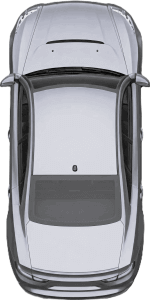
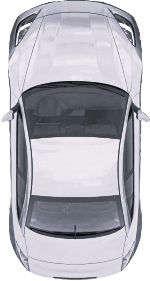
updated visuals and ray length

diff --git a/visualizer.js b/visualizer.js
@@ -21,7 +21,7 @@ class Visualizer {
           network.levels.length == 1 ? 0.5 : i / (network.levels.length - 1)
         );
 
-      ctx.setLineDash([50, 8]); // Set dashed lines for visual effect
+      // ctx.setLineDash([50, 8]); // Set dashed lines for visual effect
       // Draw the current level, passing input and output labels for the last level.
       Visualizer.drawLevel(
         ctx,
@@ -64,7 +64,7 @@ class Visualizer {
       const x = Visualizer.#getNodeX(inputs, i, left, right);
       ctx.beginPath();
       ctx.arc(x, bottom, nodeRadius, 0, Math.PI * 2); // Outer circle
-      ctx.fillStyle = "rgba(125,125,125,0.1)"; // Light gray for outer ring
+      ctx.fillStyle = "rgba(125,125,125,0.3)"; // Light gray for outer ring
       ctx.fill();
       ctx.beginPath();
       ctx.arc(x, bottom, nodeRadius * 0.6, 0, Math.PI * 2); // Inner circle
@@ -77,7 +77,7 @@ class Visualizer {
       const x = Visualizer.#getNodeX(outputs, i, left, right);
       ctx.beginPath();
       ctx.arc(x, top, nodeRadius, 0, Math.PI * 2); // Outer circle
-      ctx.fillStyle = "rgba(125,125,125,0.05)"; // Light gray for outer ring
+      ctx.fillStyle = "black"; // Light gray for outer ring
       ctx.fill();
       ctx.beginPath();
       ctx.arc(x, top, nodeRadius * 0.6, 0, Math.PI * 2); // Inner circle
@@ -89,9 +89,9 @@ class Visualizer {
       ctx.lineWidth = 3;
       ctx.arc(x, top, nodeRadius * 0.8, 0, Math.PI * 2); // Bias ring
       ctx.strokeStyle = getRGBA(biases[i]);
-      ctx.setLineDash([10, 5]); // Dashed line for bias.
+      // ctx.setLineDash([10, 5]); // Dashed line for bias.
       ctx.stroke();
-      ctx.setLineDash([]);
+      // ctx.setLineDash([]);
 
       // Draw the label (if provided) on the output node.
       if (outputLabels[i]) {

diff --git a/sensor.js b/sensor.js
@@ -3,7 +3,7 @@ class Sensor {
     // Attach the sensor to the car
     this.car = car;
     this.rayCount = 5; // Number of rays to be cast from the sensor
-    this.rayLength = 150; // Length of each ray
+    this.rayLength = 250; // Length of each ray
     this.raySpread = Math.PI / 2; // Spread angle of rays
     this.rays = []; // Array to store the rays
     this.readings = []; // Array to store the intersection data for each ray
@@ -98,7 +98,7 @@ class Sensor {
   draw(ctx) {
     for (let i = 0; i < this.rayCount; i++) {
       let end = this.rays[i][1]; // Default end point of the ray
-      let color = "rgba(255,255,0,0.5)"; // Default yellow color for the detected part
+      let color = "rgba(255,255,0,0.3)"; // Default yellow color for the detected part
 
       if (this.readings[i]) {
         end = this.readings[i]; // Intersection point as end if detected
@@ -116,8 +116,8 @@ class Sensor {
         };
 
         // ** Add flash effect by toggling opacity **
-        const flashOpacity = 0.5 + 0.5 * Math.sin(Date.now() * 0.02);
-        color = `rgba(255, 255, 0, ${flashOpacity})`; // Yellow with flashing effect
+        // const flashOpacity = 0.5 + 0.5 * Math.sin(Date.now() * 0.02);
+        color = `rgba(255, 255, 0, 1)`; // Yellow
       }
 
       // Draw the ray from the car to the detected object or its limited length

diff --git a/road.js b/road.js
@@ -10,7 +10,7 @@ class Road {
     this.right = x + width / 2;
 
     // Set the road's top and bottom boundaries (with large values to simulate infinity)
-    const infinity = 1000000;
+    const infinity = 10000;
     this.top = -infinity; // Top boundary (negative infinity for upward)
     this.bottom = infinity; // Bottom boundary (infinity for downward)
 

diff --git a/car.js b/car.js
@@ -33,7 +33,7 @@ class Car {
     this.controls = new Controls(controlType);
 
     this.img = new Image();
-    this.img.src = "img/car2.png";
+    this.img.src = "img/car.png";
 
     this.mask = document.createElement("canvas");
     this.mask.width = width;
